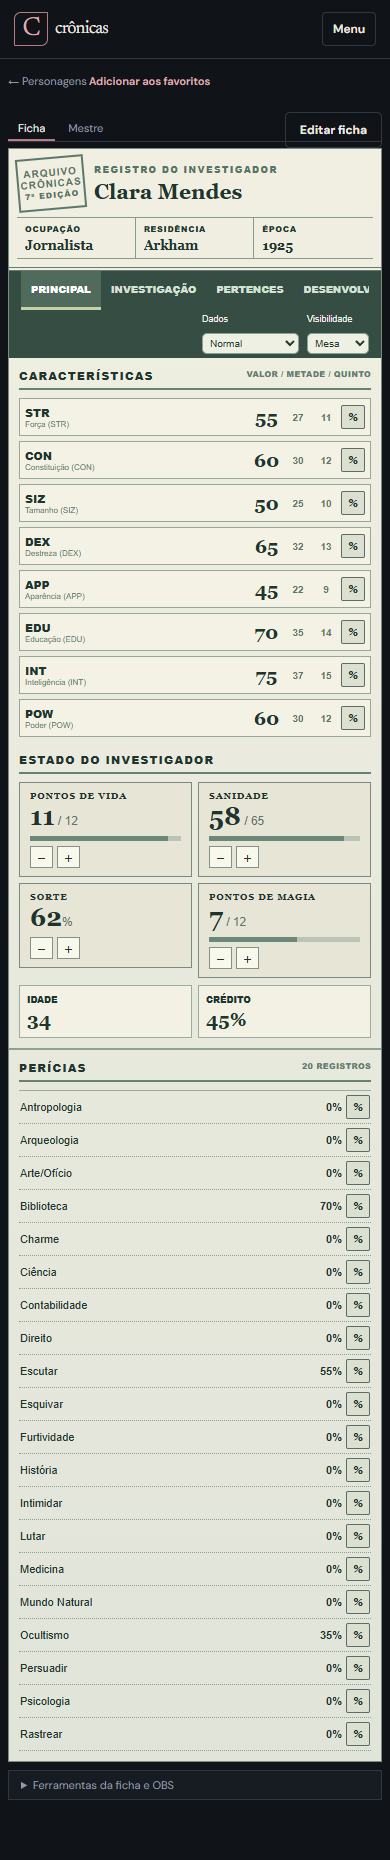
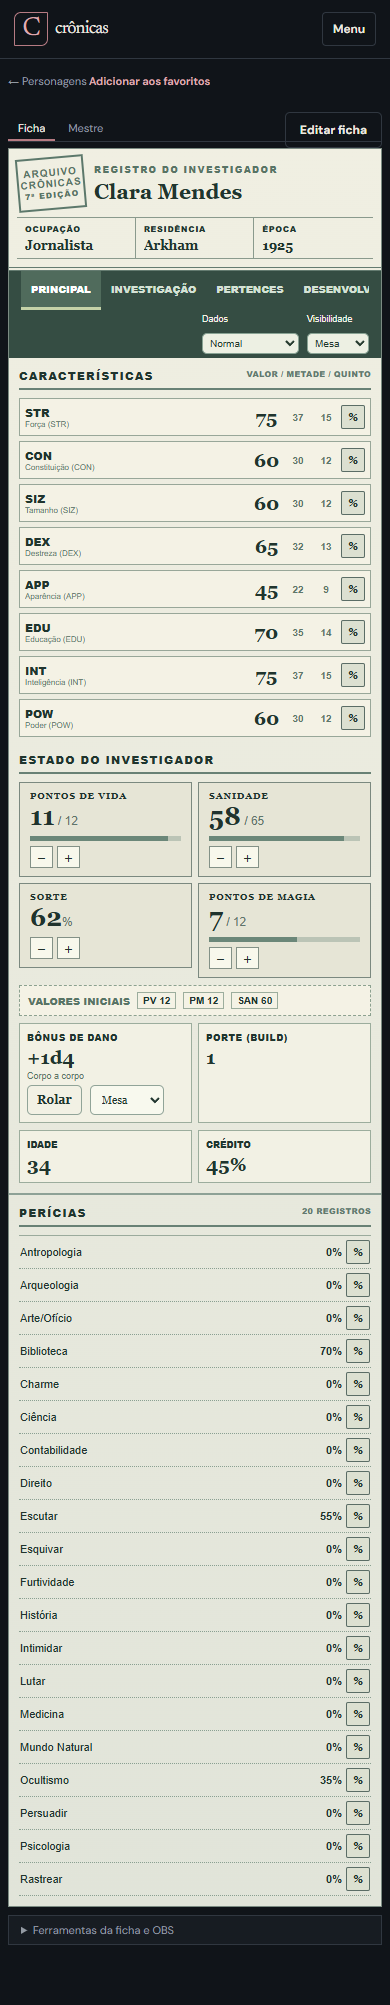
feat(sheets): add CoC 7e damage build and critical results

Changed region(s): [[0.0308, 0.0, 0.9846, 0.9667], [0.8308, 0.0, 0.9538, 0.0312]]

diff --git a/web/src/app/coc-sheet.component.ts b/web/src/app/coc-sheet.component.ts
@@ -7,6 +7,8 @@ import { CharacterAbilitiesComponent } from './character-abilities.component';
 import { CharacterHistoryPanelComponent } from './character-history.component';
 import { CharacterInventoryComponent } from './character-inventory.component';
 import { SheetCollectionFieldComponent } from './sheet-collection-field.component';
+import { SheetRollComponent } from './sheet-roll.component';
+import { coc7eDamageProfile, coc7eSuccessDegree } from './sheet-rules';
 import { SystemFieldComponent } from './specialized-sheet.component';
 import { SHEET_TEMPLATES } from './system-templates';
 
@@ -28,7 +30,7 @@ export class CocPercentileRollComponent {
   roll() {
     this.busy.set(true);
     this.api.percentileRoll(this.campaignId, Math.max(0, Math.min(100, this.target)), this.bonusDice, this.visibility, crypto.randomUUID()).pipe(finalize(() => this.busy.set(false))).subscribe({
-      next: result => { const degree = result.total <= Math.floor(this.target / 5) ? 'extremo' : result.total <= Math.floor(this.target / 2) ? 'difícil' : result.total <= this.target ? 'regular' : 'falha'; this.rolled.emit(`${this.label}: ${result.total} / ${this.target}% · ${degree} (${result.rolls.join(', ')})`); },
+      next: result => { const degree = coc7eSuccessDegree(result.total, Math.max(0, Math.min(100, this.target))) || 'resultado indisponivel'; this.rolled.emit(`${this.label}: ${result.total} / ${this.target}% · ${degree} (${result.rolls.join(', ')})`); },
       error: error => this.rolled.emit(`${this.label}: ${apiError(error)}`)
     });
   }
@@ -55,17 +57,18 @@ export class CocResourceComponent {
   setMax(value: number) { if (!this.canEdit || !this.maxKey) return; this.draft[this.maxKey] = Math.max(1, Math.min(9999, Number(value) || 1)); this.setCurrent(this.current()); }
 }
 
-@Component({ selector: 'app-coc-sheet', standalone: true, imports: [CommonModule, FormsModule, CocPercentileRollComponent, CocResourceComponent, SystemFieldComponent, SheetCollectionFieldComponent, CharacterInventoryComponent, CharacterAbilitiesComponent, CharacterHistoryPanelComponent], template: `
+@Component({ selector: 'app-coc-sheet', standalone: true, imports: [CommonModule, FormsModule, CocPercentileRollComponent, CocResourceComponent, SystemFieldComponent, SheetCollectionFieldComponent, SheetRollComponent, CharacterInventoryComponent, CharacterAbilitiesComponent, CharacterHistoryPanelComponent], template: `
   <article class="coc-sheet"><header class="coc-header"><div class="coc-stamp">ARQUIVO<br>CRÔNICAS<br><b>7ª EDIÇÃO</b></div><div class="coc-name"><small>REGISTRO DO INVESTIGADOR</small><h1 *ngIf="mode !== 'edit'">{{ draft.name }}</h1><input *ngIf="mode === 'edit'" aria-label="Nome do investigador" [ngModel]="draft.name" (ngModelChange)="draft.name=$event; changed.emit()" [ngModelOptions]="{standalone:true}" maxlength="120"></div><div class="coc-identity"><div *ngFor="let key of ['ocupacao','local','epoca']"><small>{{ label(key) }}</small><strong *ngIf="!canEditField(key)">{{ textValue(key) || '—' }}</strong><input *ngIf="canEditField(key)" [attr.aria-label]="label(key)" [ngModel]="textValue(key)" (ngModelChange)="setField(key,$event)" [ngModelOptions]="{standalone:true}"></div></div></header>
     <div class="coc-toolbar"><nav aria-label="Seções do investigador"><button *ngFor="let tab of tabs" type="button" [class.active]="active() === tab.id" (click)="active.set(tab.id)">{{ tab.label }}</button><button *ngIf="extraFields().length" type="button" [class.active]="active() === 'extras'" (click)="active.set('extras')">Extras</button></nav><div *ngIf="mode !== 'print'" class="coc-roll-config"><label>Dados <select [ngModel]="bonusDice()" (ngModelChange)="bonusDice.set(+$event)" [ngModelOptions]="{standalone:true}" aria-label="Dados de bônus ou penalidade"><option [value]="0">Normal</option><option [value]="1">+1 bônus</option><option [value]="2">+2 bônus</option><option [value]="-1">−1 penalidade</option><option [value]="-2">−2 penalidades</option></select></label><label>Visibilidade <select [ngModel]="visibility()" (ngModelChange)="visibility.set($event)" [ngModelOptions]="{standalone:true}" aria-label="Visibilidade da rolagem"><option value="campaign">Mesa</option><option value="private">Privada</option></select></label></div></div>
     <div *ngIf="lastRoll() && mode !== 'print'" class="coc-roll-result" role="status">{{ lastRoll() }}</div>
-    <div *ngIf="show('principal')" class="coc-main"><div class="coc-left"><h2>CARACTERÍSTICAS <small>VALOR / METADE / QUINTO</small></h2><div class="coc-characteristics"><div *ngFor="let key of characteristicKeys" class="coc-characteristic"><span>{{ short(key) }}<small>{{ label(key) }}</small></span><input *ngIf="canEditField(key); else characteristicRead" type="number" [attr.aria-label]="label(key)" [ngModel]="number(key)" (ngModelChange)="setField(key,+$event)" [ngModelOptions]="{standalone:true}" min="0" max="100"><ng-template #characteristicRead><strong>{{ number(key) }}</strong></ng-template><b>{{ number(key+'_metade') }}</b><b>{{ number(key+'_quinto') }}</b><app-coc-roll *ngIf="mode !== 'print'" [campaignId]="character.campaignId" [target]="number(key)" [bonusDice]="bonusDice()" [visibility]="visibility()" [label]="label(key)" (rolled)="lastRoll.set($event)" /></div></div><h2>ESTADO DO INVESTIGADOR</h2><div class="coc-resources"><app-coc-resource [draft]="draft" fieldKey="health" maxKey="maxHealth" label="Pontos de vida" [mode]="mode" [canEdit]="character.canEdit" (changed)="changed.emit()" /><app-coc-resource [draft]="draft" fieldKey="sanity" maxKey="maxSanity" label="Sanidade" [mode]="mode" [canEdit]="character.canEdit" (changed)="changed.emit()" /><app-coc-resource [draft]="draft" fieldKey="sorte" label="Sorte" [mode]="mode" [canEdit]="character.canEdit" (changed)="changed.emit()" /><app-coc-resource *ngIf="hasMagicPoints()" [draft]="draft" fieldKey="mana" maxKey="maxMana" label="Pontos de magia" [mode]="mode" [canEdit]="character.canEdit" (changed)="changed.emit()" /></div><div *ngIf="field('pv_inicial')" class="coc-derived"><span>VALORES INICIAIS</span><b>PV {{ number('pv_inicial') }}</b><b>PM {{ number('pm_inicial') }}</b><b>SAN {{ number('san_inicial') }}</b><button *ngIf="mode === 'edit' && character.canEdit" type="button" (click)="applyInitialVitals()">Aplicar à criação</button></div><div class="coc-facts"><div><span>IDADE</span><strong *ngIf="!canEditField('idade')">{{ number('idade') }}</strong><input *ngIf="canEditField('idade')" type="number" aria-label="Idade" [ngModel]="number('idade')" (ngModelChange)="setField('idade',+$event)" [ngModelOptions]="{standalone:true}"></div><div><span>CRÉDITO</span><strong *ngIf="!canEditField('credito')">{{ number('credito') }}%</strong><input *ngIf="canEditField('credito')" type="number" aria-label="Crédito" [ngModel]="number('credito')" (ngModelChange)="setField('credito',+$event)" [ngModelOptions]="{standalone:true}"></div></div></div><div class="coc-right"><h2>PERÍCIAS <small>{{ skills().length }} REGISTROS</small></h2><div class="coc-skills"><div *ngFor="let skill of skills()" class="coc-skill"><span>{{ skill.label }}</span><input *ngIf="canEditField(skill.key); else skillRead" type="number" [attr.aria-label]="skill.label" [ngModel]="number(skill.key)" (ngModelChange)="setField(skill.key,+$event)" [ngModelOptions]="{standalone:true}" min="0" max="100"><ng-template #skillRead><b>{{ number(skill.key) }}%</b></ng-template><app-coc-roll *ngIf="mode !== 'print'" [campaignId]="character.campaignId" [target]="number(skill.key)" [bonusDice]="bonusDice()" [visibility]="visibility()" [label]="skill.label" (rolled)="lastRoll.set($event)" /></div></div></div></div>
+    <div *ngIf="show('principal')" class="coc-main"><div class="coc-left"><h2>CARACTERÍSTICAS <small>VALOR / METADE / QUINTO</small></h2><div class="coc-characteristics"><div *ngFor="let key of characteristicKeys" class="coc-characteristic"><span>{{ short(key) }}<small>{{ label(key) }}</small></span><input *ngIf="canEditField(key); else characteristicRead" type="number" [attr.aria-label]="label(key)" [ngModel]="number(key)" (ngModelChange)="setField(key,+$event)" [ngModelOptions]="{standalone:true}" min="0" max="100"><ng-template #characteristicRead><strong>{{ number(key) }}</strong></ng-template><b>{{ number(key+'_metade') }}</b><b>{{ number(key+'_quinto') }}</b><app-coc-roll *ngIf="mode !== 'print'" [campaignId]="character.campaignId" [target]="number(key)" [bonusDice]="bonusDice()" [visibility]="visibility()" [label]="label(key)" (rolled)="lastRoll.set($event)" /></div></div><h2>ESTADO DO INVESTIGADOR</h2><div class="coc-resources"><app-coc-resource [draft]="draft" fieldKey="health" maxKey="maxHealth" label="Pontos de vida" [mode]="mode" [canEdit]="character.canEdit" (changed)="changed.emit()" /><app-coc-resource [draft]="draft" fieldKey="sanity" maxKey="maxSanity" label="Sanidade" [mode]="mode" [canEdit]="character.canEdit" (changed)="changed.emit()" /><app-coc-resource [draft]="draft" fieldKey="sorte" label="Sorte" [mode]="mode" [canEdit]="character.canEdit" (changed)="changed.emit()" /><app-coc-resource *ngIf="hasMagicPoints()" [draft]="draft" fieldKey="mana" maxKey="maxMana" label="Pontos de magia" [mode]="mode" [canEdit]="character.canEdit" (changed)="changed.emit()" /></div><div *ngIf="field('pv_inicial')" class="coc-derived"><span>VALORES INICIAIS</span><b>PV {{ number('pv_inicial') }}</b><b>PM {{ number('pm_inicial') }}</b><b>SAN {{ number('san_inicial') }}</b><button *ngIf="mode === 'edit' && character.canEdit" type="button" (click)="applyInitialVitals()">Aplicar à criação</button></div><div *ngIf="damageProfile() as damage" class="coc-damage"><div><span>BÔNUS DE DANO</span><strong>{{ damage.bonus }}</strong><small>Corpo a corpo</small><app-sheet-roll *ngIf="damage.rollExpression && mode !== 'print'" [campaignId]="character.campaignId" [expression]="damage.rollExpression" [values]="draft.fields" label="Bônus de dano" [compact]="true" /></div><div><span>PORTE (BUILD)</span><strong>{{ damage.build }}</strong></div></div><div class="coc-facts"><div><span>IDADE</span><strong *ngIf="!canEditField('idade')">{{ number('idade') }}</strong><input *ngIf="canEditField('idade')" type="number" aria-label="Idade" [ngModel]="number('idade')" (ngModelChange)="setField('idade',+$event)" [ngModelOptions]="{standalone:true}"></div><div><span>CRÉDITO</span><strong *ngIf="!canEditField('credito')">{{ number('credito') }}%</strong><input *ngIf="canEditField('credito')" type="number" aria-label="Crédito" [ngModel]="number('credito')" (ngModelChange)="setField('credito',+$event)" [ngModelOptions]="{standalone:true}"></div></div></div><div class="coc-right"><h2>PERÍCIAS <small>{{ skills().length }} REGISTROS</small></h2><div class="coc-skills"><div *ngFor="let skill of skills()" class="coc-skill"><span>{{ skill.label }}</span><input *ngIf="canEditField(skill.key); else skillRead" type="number" [attr.aria-label]="skill.label" [ngModel]="number(skill.key)" (ngModelChange)="setField(skill.key,+$event)" [ngModelOptions]="{standalone:true}" min="0" max="100"><ng-template #skillRead><b>{{ number(skill.key) }}%</b></ng-template><app-coc-roll *ngIf="mode !== 'print'" [campaignId]="character.campaignId" [target]="number(skill.key)" [bonusDice]="bonusDice()" [visibility]="visibility()" [label]="skill.label" (rolled)="lastRoll.set($event)" /></div></div></div></div>
     <section *ngIf="show('investigacao')" class="coc-detail"><h2>INVESTIGAÇÃO</h2><div class="coc-detail-grid"><app-system-field *ngFor="let key of ['contatos','condicoes']" [field]="field(key)" [draft]="draft" [campaignId]="character.campaignId" [mode]="mode" [isMaster]="isMaster" (changed)="changed.emit()" /></div></section><section *ngIf="show('pertences')" class="coc-detail"><h2>PERTENCES E RECURSOS</h2><app-character-inventory [character]="character" /><details class="coc-secondary"><summary>Conhecimentos e habilidades</summary><app-character-abilities [character]="character" /></details></section><section *ngIf="show('desenvolvimento')" class="coc-detail"><h2>DESENVOLVIMENTO E HISTÓRIA</h2><app-sheet-collection-field *ngIf="field('desenvolvimento') as development" [field]="development" [draft]="draft" [campaignId]="character.campaignId" [mode]="mode" (changed)="changed.emit()" /><app-character-history *ngIf="mode !== 'print'" [character]="character" (restored)="restored.emit($event)" /></section><section *ngIf="extraFields().length && show('extras')" class="coc-detail"><h2>CAMPOS DA MESA</h2><div class="coc-detail-grid"><app-system-field *ngFor="let extra of extraFields()" [field]="extra" [draft]="draft" [campaignId]="character.campaignId" [mode]="mode" [isMaster]="isMaster" (changed)="changed.emit()" /></div></section>
   </article>
 `, styles: [`
   :host{display:block;min-width:0}.coc-sheet{min-width:0;border:1px solid #7b8b82;background:#e7e6d8;color:#20352e;font-family:Georgia,serif;background-image:linear-gradient(#f0efe2,#e1e4d9)}.coc-header{display:grid;grid-template-columns:90px minmax(170px,1fr) minmax(400px,1.25fr);gap:14px;align-items:center;padding:12px 16px;border-bottom:4px double #647b70}.coc-stamp{width:85px;height:66px;display:grid;place-content:center;border:2px solid #5c786b;transform:rotate(-5deg);text-align:center;font:700 10px Arial,sans-serif;letter-spacing:.1em;color:#587466}.coc-stamp b{font-size:8px}.coc-name small{font:800 9px Arial,sans-serif;letter-spacing:.16em;color:#587466}.coc-name h1{font:700 clamp(23px,2.5vw,34px) Georgia,serif;margin:4px 0}.coc-name input{width:100%;background:#f8f8eb;color:#20352e;border:1px solid #7b8b82;font:700 24px Georgia,serif}.coc-identity{display:grid;grid-template-columns:repeat(3,minmax(0,1fr));border-top:1px solid #8a9a8d;border-bottom:1px solid #8a9a8d}.coc-identity>div{padding:5px 8px;border-right:1px solid #8a9a8d;min-width:0}.coc-identity>div:last-child{border:0}.coc-identity small,.coc-identity strong{display:block;overflow:hidden;text-overflow:ellipsis;white-space:nowrap}.coc-identity small{font:800 8px Arial,sans-serif;letter-spacing:.09em;text-transform:uppercase}.coc-identity strong{font-size:13px;margin-top:4px}.coc-identity input{width:100%;background:#f8f8eb;color:#20352e;border:1px solid #7b8b82;font-size:11px}
   .coc-toolbar{display:flex;align-items:center;justify-content:space-between;gap:8px;padding:0 12px;background:#354d43;color:#f4f2e5;font-family:Arial,sans-serif}.coc-toolbar nav{display:flex;overflow-x:auto;min-width:0}.coc-toolbar button{padding:11px 10px;border:0;border-bottom:3px solid transparent;background:transparent;color:#d4e1d5;white-space:nowrap;font-size:10px;font-weight:800;text-transform:uppercase;cursor:pointer}.coc-toolbar button.active,.coc-toolbar button:hover{border-color:#c5d2a8;background:#506b5c;color:#fff}.coc-roll-config{display:flex;align-items:center;gap:8px;font-size:9px}.coc-roll-config select{padding:3px;background:#edf0e3;color:#24392d;border:1px solid #89a394;font-size:10px}.coc-roll-result{padding:7px 15px;background:#b9cabb;font:12px Arial,sans-serif}.coc-main{display:grid;grid-template-columns:minmax(315px,42%) minmax(0,58%);min-height:620px}.coc-left{padding:12px 14px;border-right:2px solid #8da196;min-width:0}.coc-right{padding:12px 14px;min-width:0}.coc-main h2,.coc-detail h2{display:flex;justify-content:space-between;gap:8px;margin:0 0 8px;padding-bottom:5px;border-bottom:2px solid #688175;font:800 11px Arial,sans-serif;letter-spacing:.11em}.coc-main h2 small{font-size:8px;letter-spacing:.04em;color:#637a70}.coc-characteristics{display:grid;grid-template-columns:repeat(2,minmax(0,1fr));gap:5px;margin-bottom:15px}.coc-characteristic{display:grid;grid-template-columns:minmax(0,1fr) 33px 26px 26px 24px;align-items:center;gap:2px;padding:6px 5px;background:#f4f2e5;border:1px solid #98a799;font:11px Arial,sans-serif}.coc-characteristic span{font-weight:900}.coc-characteristic small{display:block;overflow:hidden;text-overflow:ellipsis;white-space:nowrap;font-size:8px;font-weight:400;color:#60776b}.coc-characteristic strong{font:700 19px Georgia,serif;text-align:center}.coc-characteristic b{text-align:center;color:#5e776a;font-size:10px}.coc-characteristic input,.coc-skill input,.coc-facts input{min-width:0;width:100%;padding:2px;background:#fff;color:#20352e;border:1px solid #789082;text-align:center}.coc-resources{display:grid;grid-template-columns:repeat(2,minmax(0,1fr));gap:6px}.coc-derived{display:flex;align-items:center;flex-wrap:wrap;gap:7px;margin-top:7px;padding:6px 8px;border:1px dashed #8ca190;background:#f4f2e5;font:10px Arial,sans-serif}.coc-derived span{font-weight:800;color:#587466}.coc-derived b{padding:2px 5px;border:1px solid #9cad9d}.coc-derived button{margin-left:auto;padding:3px 7px;border:1px solid #608070;background:#e6eadd;color:#20352e;cursor:pointer}.coc-derived button:focus-visible{outline:2px solid #20352e;outline-offset:2px}.coc-facts{display:grid;grid-template-columns:1fr 1fr;gap:6px;margin-top:7px}.coc-facts>div{padding:7px;background:#f2f1e4;border:1px solid #9cad9d}.coc-facts span{display:block;font:800 9px Arial,sans-serif}.coc-facts strong{display:block;margin-top:3px;font-size:19px}.coc-skills{display:grid;grid-auto-flow:column;grid-template-rows:repeat(10,auto);grid-template-columns:repeat(2,minmax(0,1fr));column-gap:13px;border-top:1px solid #9bab9d}.coc-skill{display:grid;grid-template-columns:minmax(0,1fr) 38px 24px;gap:4px;align-items:center;padding:4px 1px;border-bottom:1px dotted #8aa092;font:11px Arial,sans-serif;min-width:0}.coc-skill span{overflow:hidden;text-overflow:ellipsis;white-space:nowrap}.coc-skill b{text-align:right}.coc-detail{min-height:450px;padding:16px}.coc-detail-grid{display:grid;grid-template-columns:1fr 1fr;gap:10px}.coc-secondary{margin-top:12px;padding:9px;border:1px solid #8ca190}.coc-secondary summary{cursor:pointer;font:700 11px Arial,sans-serif}
   .coc-sheet{--surface:#f2f2e6;--surface-raised:#f8f9ee;--text:#20352e;--border:#91a498;--muted:#587265}.coc-main{min-height:0}
+  .coc-damage{display:flex;flex-wrap:wrap;gap:6px;margin-top:7px}.coc-damage>div{flex:1 1 135px;min-width:0;padding:7px;background:#f2f1e4;border:1px solid #9cad9d}.coc-damage span{display:block;font:800 9px Arial,sans-serif;letter-spacing:.06em}.coc-damage strong{display:block;margin-top:3px;font-size:19px}.coc-damage small{display:block;margin-top:3px;color:#5e776a;font:9px Arial,sans-serif}.coc-damage app-sheet-roll{display:block;margin-top:4px}
   @media(max-width:1100px){.coc-header{grid-template-columns:70px 1fr}.coc-stamp{width:68px}.coc-identity{grid-column:1/-1}.coc-main{grid-template-columns:minmax(295px,44%) minmax(0,56%)}.coc-characteristics{grid-template-columns:1fr}.coc-skills{grid-auto-flow:row;grid-template-rows:none;grid-template-columns:1fr}}
   @media(max-width:720px){.coc-main{grid-template-columns:1fr}.coc-left{border-right:0;border-bottom:2px solid #8da196}.coc-characteristics{grid-template-columns:repeat(2,1fr)}.coc-skills{grid-template-columns:repeat(2,1fr)}.coc-toolbar{display:block}.coc-roll-config{justify-content:flex-end;padding:4px 0}.coc-detail-grid{grid-template-columns:1fr}}
   @media(max-width:520px){.coc-header{padding:8px;gap:7px}.coc-name h1{font-size:21px}.coc-stamp{height:53px}.coc-identity{grid-template-columns:repeat(3,1fr)}.coc-characteristics{grid-template-columns:1fr}.coc-skills{grid-template-columns:1fr}.coc-left,.coc-right{padding:10px}}
@@ -91,6 +94,7 @@ export class CocSheetComponent {
   short(key: string) { return ({forca:'STR',constituicao:'CON',tamanho:'SIZ',destreza:'DEX',aparencia:'APP',educacao:'EDU',inteligencia:'INT',poder:'POW'} as Record<string,string>)[key] || key; }
   number(key: string) { const value = this.draft.fields[key]; return typeof value === 'number' ? value : 0; }
   textValue(key: string) { const value = this.draft.fields[key]; return typeof value === 'string' ? value : ''; }
+  damageProfile() { return this.system.rulesetVersion === '7e' && this.system.templateVersion >= 3 ? coc7eDamageProfile(this.number('forca'), this.number('tamanho')) : null; }
   canEditField(key: string) { const field = this.field(key); return this.mode === 'edit' && this.character.canEdit && !!field && !field.formula && (field.editRole !== 'gm' || this.isMaster); }
   setField(key: string, value: string | number) { if (!this.canEditField(key)) return; this.draft.fields[key] = value; this.changed.emit(); }
   applyInitialVitals() {

diff --git a/web/src/app/sheet-roll.component.ts b/web/src/app/sheet-roll.component.ts
@@ -9,7 +9,7 @@ import { SheetValues, fieldRoll } from './sheet-rules';
     <select [value]="visibility()" (change)="visibility.set($any($event.target).value)" [attr.aria-label]="'Visibilidade da rolagem de ' + label"><option value="campaign">Mesa</option><option value="private">Privada</option></select>
     <select *ngIf="percentileTarget !== null" [value]="bonusDice()" (change)="bonusDice.set(+$any($event.target).value)" [attr.aria-label]="'Dados de bônus ou penalidade de ' + label"><option [value]="0">Normal</option><option [value]="1">1 bônus</option><option [value]="2">2 bônus</option><option [value]="-1">1 penalidade</option><option [value]="-2">2 penalidades</option></select>
     <span *ngIf="total() !== null" role="status">{{ resultLabel() }}</span><span *ngIf="error()" class="form-error" role="alert">{{ error() }}</span></div>`,
-  styles: [`.sheet-roll { display: flex; align-items: center; flex-wrap: wrap; gap: 8px; margin-top: 8px; font-size: 13px; } .sheet-roll.compact { margin-top: 0; } .sheet-roll.compact button { min-height: 30px; padding: 5px 9px; } .sheet-roll select { width:auto; min-height:30px; margin:0; padding:3px 7px; font-size:11px; } @media print { .sheet-roll { display: none; } }`]
+  styles: [`.sheet-roll { display: flex; align-items: center; flex-wrap: wrap; gap: 8px; margin-top: 8px; font-size: 13px; } .sheet-roll.compact { margin-top: 0; } .sheet-roll.compact button { min-height: 30px; padding: 5px 9px; } .sheet-roll select { width:auto; min-height:30px; margin:0; padding:3px 7px; border:1px solid var(--border,#777); background:var(--surface-raised,#fff); color:var(--text,#111); font-size:11px; } .sheet-roll select:focus-visible{outline:2px solid var(--text,#111);outline-offset:2px} @media print { .sheet-roll { display: none; } }`]
 })
 export class SheetRollComponent {
   @Input({ required: true }) campaignId!: string;

diff --git a/web/src/app/sheet-rules.ts b/web/src/app/sheet-rules.ts
@@ -82,3 +82,26 @@ const dnd2014LevelXp = [0, 300, 900, 2700, 6500, 14000, 23000, 34000, 48000, 640
 export function dnd2014NextLevelXp(level: number): number | null {
   return Number.isInteger(level) && level >= 1 && level < 20 ? dnd2014LevelXp[level] : null;
 }
+
+export function coc7eDamageProfile(strength: number, size: number): { bonus: string; build: number; rollExpression: string | null } | null {
+  if (![strength, size].every(Number.isInteger) || strength < 0 || size < 0 || strength > 1000 || size > 1000) return null;
+  const total = strength + size;
+  if (total < 2) return null;
+  if (total <= 64) return { bonus: '−2', build: -2, rollExpression: null };
+  if (total <= 84) return { bonus: '−1', build: -1, rollExpression: null };
+  if (total <= 124) return { bonus: '0', build: 0, rollExpression: null };
+  if (total <= 164) return { bonus: '+1d4', build: 1, rollExpression: '1d4' };
+  if (total <= 204) return { bonus: '+1d6', build: 2, rollExpression: '1d6' };
+  const dice = 2 + Math.floor((total - 205) / 80);
+  return { bonus: `+${dice}d6`, build: dice + 1, rollExpression: dice <= 40 ? `${dice}d6` : null };
+}
+
+// The target is the number required for success, including the selected difficulty.
+export function coc7eSuccessDegree(total: number, target: number): string | null {
+  if (!Number.isInteger(total) || total < 1 || total > 100 || !Number.isInteger(target) || target < 0 || target > 100) return null;
+  if (total === 1) return 'crítico';
+  if (total === 100 || target < 50 && total >= 96) return 'falha crítica';
+  if (total <= Math.floor(target / 5)) return 'extremo';
+  if (total <= Math.floor(target / 2)) return 'difícil';
+  return total <= target ? 'regular' : 'falha';
+}

diff --git a/web/src/app/system-templates.ts b/web/src/app/system-templates.ts
@@ -204,7 +204,7 @@ export const SHEET_TEMPLATES: SheetTemplate[] = [
       { id: 'mochila', title: 'Mochila', items: [inventory()] },
       { id: 'cronica', title: 'Crônica', items: [history()] }
     ], 'mythic', '#be825d', 'CRÔNICAS / LENDA', { Atributos: { style: 'score', span: 4 }, Perícias: { style: 'compact', span: 6 } }) },
-  { id: 'call_of_cthulhu_7e', version: 2, rulesetVersion: '7e', name: 'Call of Cthulhu 7e', summary: 'Características percentuais, limiares, recursos derivados e investigação.', sourceUrl: 'https://www.chaosium.com/content/FreePDFs/CoC/CHA23131%20Call%20of%20Cthulhu%207th%20Edition%20Quick-Start%20Rules.pdf', fields: cocFields,
+  { id: 'call_of_cthulhu_7e', version: 3, rulesetVersion: '7e', name: 'Call of Cthulhu 7e', summary: 'Características percentuais, limiares, recursos derivados e investigação.', sourceUrl: 'https://www.chaosium.com/content/FreePDFs/CoC/CHA23131%20Call%20of%20Cthulhu%207th%20Edition%20Quick-Start%20Rules.pdf', fields: cocFields,
     layout: makeLayout(cocFields, [
       { id: 'investigador', title: 'Arquivo do investigador', items: [identity(), portrait(), ...sectionKeys(cocFields, 'Identidade'), 'credito', 'sorte', 'desenvolvimento', resource('health', 'PV', 4), resource('sanity', 'SAN', 4), resource('mana', 'Magia', 4), ...sectionKeys(cocFields, 'Valores derivados')] },
       { id: 'caracteristicas', title: 'Características e limiares', items: [note('nota_limiares', 'Valores percentuais', 'Metade e quinto são calculados a partir de cada característica.'), ...cocCharacteristics.flatMap(([key]) => [key, `${key}_metade`, `${key}_quinto`])] },

diff --git a/web/src/app/sheet-renderer-registry.ts b/web/src/app/sheet-renderer-registry.ts
@@ -21,7 +21,8 @@ const renderers: SheetRendererDefinition[] = [
   { id: 'tormenta20', version: 1, required: ['nivel', 'forca', 'destreza', 'defesa'], resources: [{ key: 'health', label: 'PV' }, { key: 'mana', label: 'PM' }] },
   { id: 'tormenta20', version: 2, required: ['nivel', 'forca', 'destreza', 'defesa', 'bonus_treinamento'], resources: [{ key: 'health', label: 'PV' }, { key: 'mana', label: 'PM' }] },
   { id: 'call_of_cthulhu_7e', version: 1, required: ['ocupacao', 'forca', 'poder', 'per_escutar'], resources: [{ key: 'health', label: 'HP' }, { key: 'sanity', label: 'SAN' }] },
-  { id: 'call_of_cthulhu_7e', version: 2, required: ['ocupacao', 'forca', 'poder', 'per_escutar'], resources: [{ key: 'health', label: 'HP' }, { key: 'sanity', label: 'SAN' }] }
+  { id: 'call_of_cthulhu_7e', version: 2, required: ['ocupacao', 'forca', 'poder', 'per_escutar'], resources: [{ key: 'health', label: 'HP' }, { key: 'sanity', label: 'SAN' }] },
+  { id: 'call_of_cthulhu_7e', version: 3, required: ['ocupacao', 'forca', 'tamanho', 'poder', 'per_escutar'], resources: [{ key: 'health', label: 'HP' }, { key: 'sanity', label: 'SAN' }] }
 ];
 
 export function resolveSheetRenderer(system: RpgSystem | null): SheetRendererDefinition | null {

diff --git a/docs/rules-audit.md b/docs/rules-audit.md
@@ -7,11 +7,13 @@ Os PDFs na raiz do projeto foram consultados localmente em 28/10/2026. Permanece
 | Ordem Paranormal RPG, 3ª edição v1.3 (dezembro de 2024) | `ordem-paranormal-rpg-v1-3-lyfxjj (1).pdf`, capítulos de personagem e testes; ficha automática OP como conferência de campos | Atributo 0 usa 2d20 e conserva o menor; atributos positivos usam quantidade de d20 igual ao valor e conservam o maior. Defesa já derivava de 10 + AGI + modificadores. O template v5 acrescenta classe estruturada e sugere PV, PE e SAN básicos por classe e NEX, incluindo o avanço de 95% para 99%. Aplicar os valores é uma ação explícita. |
 | D&D 5e, edição 2014 | `dd-5e-livro-do-jogador-fundo-branco-biblioteca-c3a9lfica.pdf`, criação de personagem e avanço; ficha automática como conferência de campos | Modelo novo marcado como 2014 (v2), com modificadores de atributo, proficiência, resistências e perícias já calculados. A ficha permite editar XP e mostra o limiar para o próximo nível da edição 2014. O modelo v1, marcado 2024, continua disponível para fichas existentes e não herda regras específicas de 2014. |
 | Tormenta20, Jogo do Ano, 2ª edição, 3ª impressão v1.3 (outubro de 2024) | `T20 - Livro Básico.pdf`, capítulos de personagem, perícias e combate; ficha automática Jogo do Ano como conferência | Modelo v2 calcula bônus de treinamento por faixa (2/4/6), perícia = metade do nível + atributo + treino e Defesa = 10 + DES + armadura + escudo + outros. O botão T em cada perícia altera o treino e dispara salvamento. |
-| Call of Cthulhu, 7ª edição | `chamado-de-cthulhu-livro-básico 7E.pdf`, criação do investigador; `Guia do Investigador - 7E.pdf` e ficha editável moderna como conferência | Além de metade/quinto e testes percentuais existentes, o modelo v2 sugere PV inicial = piso((CON + SIZ)/10), PM inicial = piso(POW/5) e SAN inicial = POW. O jogador aplica os valores à ficha explicitamente durante a criação. |
+| Call of Cthulhu, 7ª edição | `chamado-de-cthulhu-livro-básico 7E.pdf`, criação do investigador; `Guia do Investigador - 7E.pdf` e ficha editável moderna como conferência | Além de metade/quinto e testes percentuais existentes, o modelo sugere PV inicial = piso((CON + SIZ)/10), PM inicial = piso(POW/5) e SAN inicial = POW. O jogador aplica os valores à ficha explicitamente durante a criação. A v3 calcula bônus de dano e porte a partir de FOR + TAM e permite rolar o bônus de dados na sessão. |
 
 O PDF `chamado-de-cthulhu-livro do guardião-7-edicao.pdf` foi localizado, mas nenhuma regra exclusiva dele foi adicionada. `pdfcoffee.com_t20-ameaas-de-arton-pdf-free.pdf` é um suplemento de criaturas; não foi usado para adicionar NPCs ou ameaças automaticamente. As fichas editáveis foram usadas apenas para conferir agrupamento de campos, não como fonte de cálculo.
 
 ## Versionamento e compatibilidade
+
+Os testes da ficha especializada de Call of Cthulhu 7e classificam 01 como crítico e 100 como falha crítica; com alvo inferior a 50, 96–100 são falhas críticas. Os demais resultados mantêm os graus regular, difícil e extremo. A classificação usa o alvo enviado ao teste; a interface atual usa dificuldade regular. A conferência foi feita no capítulo de sistema de jogo do PDF local, páginas impressas 89–90. Consequências de falhas críticas continuam sob decisão do Guardião.
 
 Um sistema salvo na campanha conserva `templateId`, `templateVersion` e `rulesetVersion`. As versões antigas continuam no registro de renderizadores. O Crônicas não altera automaticamente a edição nem converte bônus de perícia gravados em fichas antigas para fórmulas novas. Ativar o visual especializado de um modelo já associado preserva a versão existente; associar outro modelo é uma ação explícita do dono do sistema.
 
@@ -24,6 +26,6 @@ As fórmulas novas passam pelo mesmo interpretador limitado no cliente e na API.
 - Ordem Paranormal: totais básicos de PV, PE e SAN agora são sugeridos; bônus de origem, poderes, transcendência, trilhas, rituais, dano e condições exigem escolhas e exceções que não podem ser inferidas apenas do nome da classe. Personagens existentes preservam seus recursos até o jogador selecionar a classe estruturada e aplicar os valores.
 - D&D 5e: PV por classe, equipamentos, magia por classe, talentos, ações e progressão completa; diferenças exclusivas de 2024 seguem sem implementação neste material de 2014.
 - Tormenta20: PV/PM por classe, treino concedido por classe/origem, restrições de perícias, penalidades de armadura, ataques e poderes. Outros modificadores de perícia continuam configuráveis pelo autor do sistema.
-- Call of Cthulhu: criação por ocupação/idade, movimento, bônus de dano, constituição, desenvolvimento, sorte opcional, ferimentos e sanidade máxima por Mitos. O botão de valores iniciais não deve ser usado para redefinir um investigador já progredido.
+- Call of Cthulhu: criação por ocupação/idade, movimento, desenvolvimento, sorte opcional, ferimentos e sanidade máxima por Mitos. O bônus de dano exibido aplica-se a combate corpo a corpo; a ficha não o acrescenta automaticamente a ataques cadastrados. O botão de valores iniciais não deve ser usado para redefinir um investigador já progredido.
 
 Essas regras devem entrar em versões novas dos templates, com campos estruturados para as escolhas necessárias e testes de migração antes de atualizar fichas existentes.

diff --git a/docs/sheets.md b/docs/sheets.md
@@ -10,7 +10,7 @@ O frontend escolhe o renderizador em `sheet-renderer-registry.ts` usando **ID + 
 
 Ordem Paranormal tem o template v5 identificado com as regras 1.3. Fichas v1–v4 continuam resolvidas sem troca automática de edição. A ficha principal usa uma roda pentagonal de atributos, lista compacta de perícias, controles rápidos de PV/SAN/PE e defesa. Atributo 0 rola 2d20 e conserva o menor resultado. A classe estruturada permite calcular totais básicos de PV, PE e SAN por NEX; o botão aplica esses valores durante a criação, sem redefinir fichas antigas. D&D 5e usa seis caixas individuais de atributos, colunas de resistências, perícias e combate, além de abas de ações, magias, inventário e características. O novo template v2 está identificado como edição 2014 e exibe o limiar de XP para o próximo nível; a v1 existente permanece marcada 2024. Os controles alteram o `CharacterInput` usado pelo autosave existente; inventário e habilidades continuam nos endpoints próprios.
 
-Call of Cthulhu 7e usa uma matriz percentual de características com metade e quinto calculados, testes por `percentileRoll`, perícias compactas, HP/SAN/Sorte e dossiê de investigação. A v2 sugere valores iniciais de PV, PM e SAN derivados das características; o jogador os aplica explicitamente. Tormenta20 usa atributos como modificadores, PV/PM, Defesa, ataques e perícias compactas. A v2 Jogo do Ano calcula treino, Defesa e bônus de perícias. A v1 continua com valores manuais para não reescrever dados de personagens existentes. A auditoria de fontes e limites está em `docs/rules-audit.md`.
+Call of Cthulhu 7e usa uma matriz percentual de características com metade e quinto calculados, testes por `percentileRoll`, perícias compactas, HP/SAN/Sorte e dossiê de investigação. A v2 sugere valores iniciais de PV, PM e SAN derivados das características; o jogador os aplica explicitamente. A v3 calcula bônus de dano e porte a partir de FOR + TAM, com rolagem do bônus quando há dados. Tormenta20 usa atributos como modificadores, PV/PM, Defesa, ataques e perícias compactas. A v2 Jogo do Ano calcula treino, Defesa e bônus de perícias. A v1 continua com valores manuais para não reescrever dados de personagens existentes. A auditoria de fontes e limites está em `docs/rules-audit.md`.
 
 ## Adicionar um sistema especializado
 
